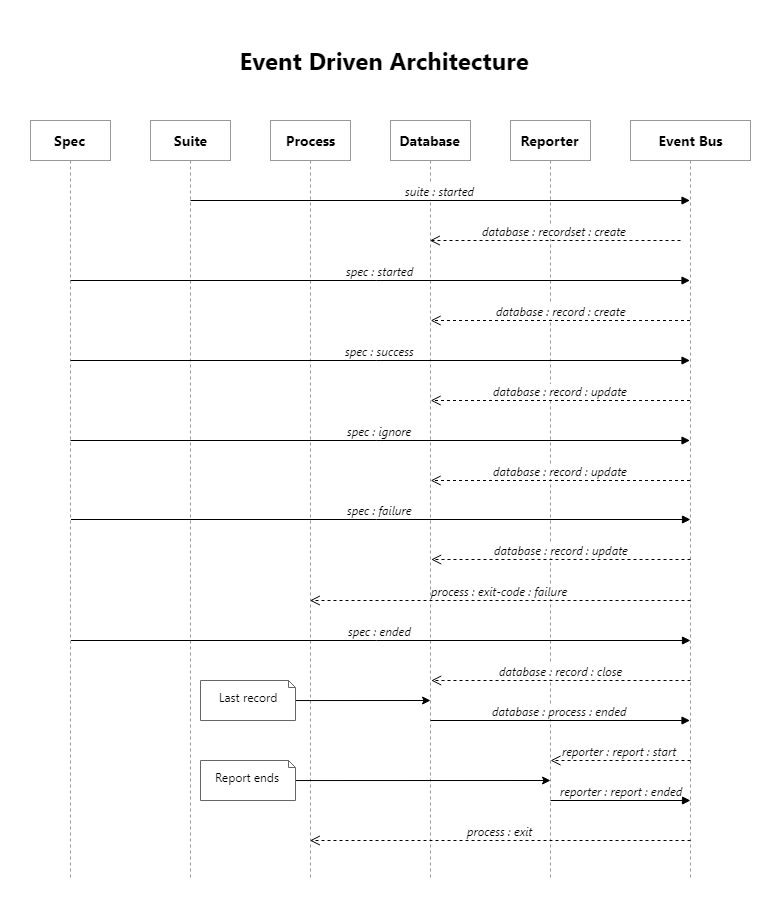
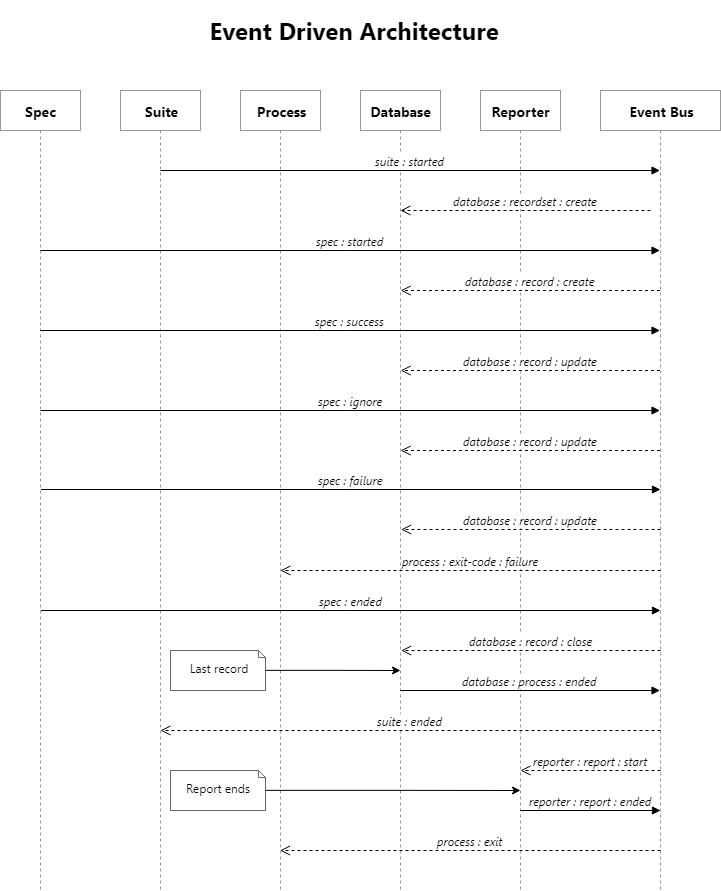
Feature/spec setup teardown (#21)
* Add setup and teardown for each specs
* Add eachSetup, eachTeardown documentation

diff --git a/dist/titef.js b/dist/titef.js
@@ -1,1 +1,1 @@
-!function(t,e){for(var r in e)t[r]=e[r]}(exports,function(t){var e={};function r(s){if(e[s])return e[s].exports;var n=e[s]={i:s,l:!1,exports:{}};return t[s].call(n.exports,n,n.exports,r),n.l=!0,n.exports}return r.m=t,r.c=e,r.d=function(t,e,s){r.o(t,e)||Object.defineProperty(t,e,{configurable:!1,enumerable:!0,get:s})},r.n=function(t){var e=t&&t.__esModule?function(){return t.default}:function(){return t};return r.d(e,"a",e),e},r.o=function(t,e){return Object.prototype.hasOwnProperty.call(t,e)},r.p="",r(r.s=3)}([function(t,e){const r={PENDING:"PENDING",SUCCESS:"SUCCESS",FAILURE:"FAILURE",IGNORED:"IGNORED"},s=Object.values(r);t.exports={EVENT:{PROCESS:{EXIT:"process:exit",EXIT_CODE:{FAILURE:"process:exit-code:failure"}},DATABASE:{RECORDSET:{CREATE:"database:recordset:create"},RECORD:{CREATE:"database:record:create",UPDATE:"database:record:update",CLOSE:"database:record:close"},PROCESS:{ENDED:"database:process:ended"}},SUITE:{STARTED:"suite:started"},SPEC:{STARTED:"spec:started",SUCCESS:"spec:success",IGNORE:"spec:ignore",FAILURE:"spec:failure",ENDED:"spec:ended"},REPORTER:{REPORT:{START:"reporter:report:start",ENDED:"reporter:report:ended"}}},RESULT:r,RESULTS:s}},function(t,e){t.exports=require("events")},function(t,e){t.exports={isNumber:t=>"[object Number]"===Object.prototype.toString.call(t),isFunction:t=>/\[object (Async)?Function]/.test(Object.prototype.toString.call(t)),isObject:t=>"[object Object]"===Object.prototype.toString.call(t)}},function(t,e,r){const{EVENT:s,RESULT:n}=r(0),o=r(4),E=r(7),i=r(8),c=r(9),u=r(10);!function(){this._reporters=[o],u.on(s.SUITE.STARTED,t=>{E.emit(s.DATABASE.RECORDSET.CREATE,t)}),c.on(s.SPEC.STARTED,t=>{E.emit(s.DATABASE.RECORD.CREATE,t)}),c.on(s.SPEC.SUCCESS,t=>{E.emit(s.DATABASE.RECORD.UPDATE,t,n.SUCCESS)}),c.on(s.SPEC.IGNORE,t=>{E.emit(s.DATABASE.RECORD.UPDATE,t,n.IGNORED)}),c.on(s.SPEC.FAILURE,(t,e)=>{E.emit(s.DATABASE.RECORD.UPDATE,t,n.FAILURE,e),i.emit(s.PROCESS.EXIT_CODE.FAILURE)}),c.on(s.SPEC.ENDED,t=>{E.emit(s.DATABASE.RECORD.CLOSE,t)}),E.on(s.DATABASE.PROCESS.ENDED,t=>{this._reporters.forEach(e=>{e.emit(s.REPORTER.REPORT.START,t)})}),this._reporters.forEach(t=>{t.on(s.REPORTER.REPORT.ENDED,()=>{i.emit(s.PROCESS.EXIT)})})}(),t.exports={suite:u.suite.bind(u),spec:c.spec.bind(c),xspec:c.spec.bind(c)}},function(t,e,r){const s=r(1),{printDatabase:n}=r(5),{EVENT:o}=r(0);t.exports=new class extends s{constructor(){super(),this.on(o.REPORTER.REPORT.START,async t=>{await n(t),this.emit(o.REPORTER.REPORT.ENDED)})}}},function(t,e,r){const{isFunction:s}=r(2),{TEXT_FORMAT:n}=r(6),{RESULT:o}=r(0),E=(...t)=>{const e=[...t,n.RESET,"\n"];return process.stdout.write(e.map(String).join(""))},i=t=>s(t)?t.name:String(t);t.exports={printDatabase:async t=>{const e={};Object.keys(t).forEach(r=>{E(n.BOLD,`SUITE: ${r}`),Object.values(t[r]).forEach(t=>{t.result===o.SUCCESS?E(n.GREEN,`[ ✔ ] ${t.title}`):t.result===o.IGNORED?E(n.YELLOW,`[ - ] ${t.title}`):t.result===o.PENDING?E(n.GREY,`[...] ${t.title}`):(E(n.RED,`[ ✕ ] ${t.title}`),e[`${t.suite} > ${t.title}`]=t.payload)})});const r=Object.entries(e);r.length&&(E(n.BOLD,"\nError details:"),r.forEach((t,e)=>{const r=t[0],s=t[1];E(n.BOLD,`\n${e+1}) ${r}`),(t=>{const e=(t=>t.message?t.message:t.toString().split(":").slice(-1)[0])(t);if((t=>"ERR_ASSERTION"===t.code||0===t.toString().indexOf("AssertionError"))(t)){const r=i(t.operator),s=i(t.expected),o=i(t.actual);E(`ASSERTION FAILURE: ${e}`),"fail"===r?E("\tUnexpected:\t",n.RED,`${o}`):!r&&t.expected&&t.actual&&(E("\tExpected:\t",n.GREEN,s),E("\tActual:\t\t",n.RED,o))}else E(`ERROR: ${e}`);E(n.GREY,t.stack)})(s)}))}}},function(t,e){t.exports={TEXT_FORMAT:{RED:"[31m",GREEN:"[32m",YELLOW:"[33m",RESET:"[0m",BOLD:"[1m",GREY:"[90m"}}},function(t,e,r){const s=r(1),{EVENT:n,RESULT:o,RESULTS:E}=r(0);t.exports=new class extends s{constructor(){super(),this._recordsets={},this._processed=0,this._currentSuite=null,this.on(n.DATABASE.RECORDSET.CREATE,this.createRecordset),this.on(n.DATABASE.RECORD.CREATE,this.createRecord),this.on(n.DATABASE.RECORD.UPDATE,this.updateRecord),this.on(n.DATABASE.RECORD.CLOSE,this.closeRecord)}createRecordset(t){this._currentSuite=t,this._recordsets[this._currentSuite]={}}createRecord(t){if(!this._currentSuite)throw new TypeError("Unable to find current Suite!");if(!t)throw new TypeError("Missing record title!");if(!this._recordsets[this._currentSuite])throw new TypeError(`Missing or null records list for ${this._currentSuite}`);this._recordsets[this._currentSuite][t]={title:t,suite:this._currentSuite,result:o.PENDING,payload:null}}updateRecord(t,e,r){if(!this._currentSuite)throw new TypeError("Unable to find current Suite!");if(!E.includes(e))throw new TypeError(`Result should be one of ${E.join()}. Got ${e}.`);this._recordsets[this._currentSuite][t]=Object.assign({},this._recordsets[this._currentSuite][t],{result:e,payload:r})}closeRecord(){this._processed+=1;const t=Object.keys(this._recordsets[this._currentSuite]).length;this._processed===t&&this.emit(n.DATABASE.PROCESS.ENDED,this._recordsets)}}},function(t,e,r){const s=r(1),{EVENT:n}=r(0);t.exports=new class extends s{constructor(){super(),this._exitCode=0,this.on(n.PROCESS.EXIT,()=>{process.exit(this._exitCode)}),this.on(n.PROCESS.EXIT_CODE.FAILURE,()=>{this._exitCode=1})}}},function(t,e,r){const s=r(1),{EVENT:n}=r(0);t.exports=new class extends s{async spec(t,e){this.emit(n.SPEC.STARTED,t);try{await e(),this.emit(n.SPEC.SUCCESS,t)}catch(e){this.emit(n.SPEC.FAILURE,t,e)}this.emit(n.SPEC.ENDED,t)}async xspec(t){this.emit(n.SPEC.STARTED,t),this.emit(n.SPEC.IGNORE,t),this.emit(n.SPEC.ENDED,t)}}},function(t,e,r){const s=r(1),{isFunction:n,isObject:o}=r(2),{EVENT:E}=r(0);class i extends s{static argumentParser(t,e){const r=t[0],s=t[1];switch(t.length){case 1:if(!n(r))throw new TypeError("Second argument must be a function!");return{options:e,callback:r};case 2:if(!o(r))throw new TypeError("Second argument must be an object!");if(!n(s))throw new TypeError("Third argument must be a function!");return{options:Object.assign({},e,r),callback:s};default:throw new TypeError(`Invalid arguments! Expected (title: string, options?: object, callback: function). Actual: ${t.map(String).join()}`)}}suite(t,...e){const r=String(t);this.emit(E.SUITE.STARTED,r);const s={title:r,setup:Function(),teardown:Function()},{options:o,callback:c}=i.argumentParser(e,s);if(!n(o.setup))throw new TypeError("Setup must be a function!");if(o.setup(),c(),!n(o.teardown))throw new TypeError("Teardown must be a function!");o.teardown()}}t.exports=new i}]));
+!function(t,e){for(var r in e)t[r]=e[r]}(exports,function(t){var e={};function r(E){if(e[E])return e[E].exports;var s=e[E]={i:E,l:!1,exports:{}};return t[E].call(s.exports,s,s.exports,r),s.l=!0,s.exports}return r.m=t,r.c=e,r.d=function(t,e,E){r.o(t,e)||Object.defineProperty(t,e,{configurable:!1,enumerable:!0,get:E})},r.n=function(t){var e=t&&t.__esModule?function(){return t.default}:function(){return t};return r.d(e,"a",e),e},r.o=function(t,e){return Object.prototype.hasOwnProperty.call(t,e)},r.p="",r(r.s=3)}([function(t,e){const r={PENDING:"PENDING",SUCCESS:"SUCCESS",FAILURE:"FAILURE",IGNORED:"IGNORED"},E=Object.values(r);t.exports={EVENT:{PROCESS:{EXIT:"process:exit",EXIT_CODE:{FAILURE:"process:exit-code:failure"}},DATABASE:{RECORDSET:{CREATE:"database:recordset:create"},RECORD:{CREATE:"database:record:create",UPDATE:"database:record:update",CLOSE:"database:record:close"},PROCESS:{ENDED:"database:process:ended"}},SUITE:{STARTED:"suite:started",HOOKS:{REGISTER:"suite:hooks:register",UNREGISTER:"suite:hooks:unregister"},ENDED:"suite:ended"},SPEC:{SETUP:{REGISTER:"spec:before-each:register",UNREGISTER:"spec:before-each:unregister"},TEARDOWN:{REGISTER:"spec:after-each:register",UNREGISTER:"spec:after-each:unregister"},STARTED:"spec:started",SUCCESS:"spec:success",IGNORE:"spec:ignore",FAILURE:"spec:failure",ENDED:"spec:ended"},REPORTER:{REPORT:{START:"reporter:report:start",ENDED:"reporter:report:ended"}}},RESULT:r,RESULTS:E}},function(t,e){t.exports=require("events")},function(t,e){t.exports={isNumber:t=>"[object Number]"===Object.prototype.toString.call(t),isFunction:t=>/\[object (Async)?Function]/.test(Object.prototype.toString.call(t)),isObject:t=>"[object Object]"===Object.prototype.toString.call(t)}},function(t,e,r){const{EVENT:E,RESULT:s}=r(0),o=r(4),i=r(7),n=r(8),c=r(9),R=r(10);!function(){this._reporters=[o],R.on(E.SUITE.STARTED,t=>{i.emit(E.DATABASE.RECORDSET.CREATE,t)}),R.on(E.SUITE.HOOKS.REGISTER,(t,e)=>{c.emit(E.SPEC.SETUP.REGISTER,t),c.emit(E.SPEC.TEARDOWN.REGISTER,e)}),R.on(E.SUITE.HOOKS.UNREGISTER,()=>{c.emit(E.SPEC.SETUP.UNREGISTER),c.emit(E.SPEC.TEARDOWN.UNREGISTER)}),c.on(E.SPEC.STARTED,t=>{i.emit(E.DATABASE.RECORD.CREATE,t)}),c.on(E.SPEC.SUCCESS,t=>{i.emit(E.DATABASE.RECORD.UPDATE,t,s.SUCCESS)}),c.on(E.SPEC.IGNORE,t=>{i.emit(E.DATABASE.RECORD.UPDATE,t,s.IGNORED)}),c.on(E.SPEC.FAILURE,(t,e)=>{i.emit(E.DATABASE.RECORD.UPDATE,t,s.FAILURE,e),n.emit(E.PROCESS.EXIT_CODE.FAILURE)}),c.on(E.SPEC.ENDED,t=>{i.emit(E.DATABASE.RECORD.CLOSE,t)}),i.on(E.DATABASE.PROCESS.ENDED,t=>{R.emit(E.SUITE.ENDED),this._reporters.forEach(e=>{e.emit(E.REPORTER.REPORT.START,t)})}),this._reporters.forEach(t=>{t.on(E.REPORTER.REPORT.ENDED,()=>{n.emit(E.PROCESS.EXIT)})})}(),t.exports={suite:R.suite.bind(R),spec:c.spec.bind(c),xspec:c.xspec.bind(c)}},function(t,e,r){const E=r(1),{printDatabase:s}=r(5),{EVENT:o}=r(0);t.exports=new class extends E{constructor(){super(),this.on(o.REPORTER.REPORT.START,async t=>{await s(t),this.emit(o.REPORTER.REPORT.ENDED)})}}},function(t,e,r){const{isFunction:E}=r(2),{TEXT_FORMAT:s}=r(6),{RESULT:o}=r(0),i=(...t)=>{const e=[...t,s.RESET,"\n"];return process.stdout.write(e.map(String).join(""))},n=t=>E(t)?t.name:String(t);t.exports={printDatabase:async t=>{const e={};Object.keys(t).forEach(r=>{i(s.BOLD,`SUITE: ${r}`),Object.values(t[r]).forEach(t=>{t.result===o.SUCCESS?i(s.GREEN,`[ ✔ ] ${t.title}`):t.result===o.IGNORED?i(s.YELLOW,`[ - ] ${t.title}`):t.result===o.PENDING?i(s.GREY,`[...] ${t.title}`):(i(s.RED,`[ ✕ ] ${t.title}`),e[`${t.suite} > ${t.title}`]=t.payload)})});const r=Object.entries(e);r.length&&(i(s.BOLD,"\nError details:"),r.forEach((t,e)=>{const r=t[0],E=t[1];i(s.BOLD,`\n${e+1}) ${r}`),(t=>{const e=(t=>t.message?t.message:t.toString().split(":").slice(-1)[0])(t);if((t=>"ERR_ASSERTION"===t.code||0===t.toString().indexOf("AssertionError"))(t)){const r=n(t.operator),E=n(t.expected),o=n(t.actual);i(`ASSERTION FAILURE: ${e}`),"fail"===r?i("\tUnexpected:\t",s.RED,`${o}`):!r&&t.expected&&t.actual&&(i("\tExpected:\t",s.GREEN,E),i("\tActual:\t\t",s.RED,o))}else i(`ERROR: ${e}`);i(s.GREY,t.stack)})(E)}))}}},function(t,e){t.exports={TEXT_FORMAT:{RED:"[31m",GREEN:"[32m",YELLOW:"[33m",RESET:"[0m",BOLD:"[1m",GREY:"[90m"}}},function(t,e,r){const E=r(1),{EVENT:s,RESULT:o,RESULTS:i}=r(0);t.exports=new class extends E{constructor(){super(),this._recordsets={},this._processed=0,this._currentSuite=null,this.on(s.DATABASE.RECORDSET.CREATE,this.createRecordset),this.on(s.DATABASE.RECORD.CREATE,this.createRecord),this.on(s.DATABASE.RECORD.UPDATE,this.updateRecord),this.on(s.DATABASE.RECORD.CLOSE,this.closeRecord)}createRecordset(t){this._currentSuite=t,this._recordsets[this._currentSuite]={}}createRecord(t){if(!this._currentSuite)throw new TypeError("Unable to find current Suite!");if(!t)throw new TypeError("Missing record title!");if(!this._recordsets[this._currentSuite])throw new TypeError(`Missing or null records list for ${this._currentSuite}`);this._recordsets[this._currentSuite][t]={title:t,suite:this._currentSuite,result:o.PENDING,payload:null}}updateRecord(t,e,r){if(!this._currentSuite)throw new TypeError("Unable to find current Suite!");if(!i.includes(e))throw new TypeError(`Result should be one of ${i.join()}. Got ${e}.`);this._recordsets[this._currentSuite][t]=Object.assign({},this._recordsets[this._currentSuite][t],{result:e,payload:r})}closeRecord(){this._processed+=1;const t=Object.keys(this._recordsets[this._currentSuite]).length;this._processed===t&&this.emit(s.DATABASE.PROCESS.ENDED,this._recordsets)}}},function(t,e,r){const E=r(1),{EVENT:s}=r(0);t.exports=new class extends E{constructor(){super(),this._exitCode=0,this.on(s.PROCESS.EXIT,()=>{process.exit(this._exitCode)}),this.on(s.PROCESS.EXIT_CODE.FAILURE,()=>{this._exitCode=1})}}},function(t,e,r){const E=r(1),{EVENT:s}=r(0);t.exports=new class extends E{constructor(){super(),this.before=null,this.after=null,this.on(s.SPEC.SETUP.REGISTER,t=>{this.before=t}),this.on(s.SPEC.TEARDOWN.REGISTER,t=>{this.after=t}),this.on(s.SPEC.SETUP.UNREGISTER,()=>{this.before=null}),this.on(s.SPEC.TEARDOWN.UNREGISTER,()=>{this.after=null})}async spec(t,e){this.emit(s.SPEC.STARTED,t),this.before&&this.before();try{await e(),this.emit(s.SPEC.SUCCESS,t)}catch(e){this.emit(s.SPEC.FAILURE,t,e)}this.after&&this.after(),this.emit(s.SPEC.ENDED,t)}async xspec(t){this.emit(s.SPEC.STARTED,t),this.emit(s.SPEC.IGNORE,t),this.emit(s.SPEC.ENDED,t)}}},function(t,e,r){const E=r(1),{isFunction:s,isObject:o}=r(2),{EVENT:i}=r(0);class n extends E{static argumentParser(t,e){const r=t[0],E=t[1];switch(t.length){case 1:if(!s(r))throw new TypeError("Second argument must be a function!");return{options:e,callback:r};case 2:if(!o(r))throw new TypeError("Second argument must be an object!");if(!s(E))throw new TypeError("Third argument must be a function!");return{options:Object.assign({},e,r),callback:E};default:throw new TypeError(`Invalid arguments! Expected (title: string, options?: object, callback: function). Actual: ${t.map(String).join()}`)}}suite(t,...e){const r=String(t);this.emit(i.SUITE.STARTED,r);const E={title:r,setup:Function(),teardown:Function(),eachSetup:Function(),eachTeardown:Function()},{options:o,callback:c}=n.argumentParser(e,E);if(this.emit(i.SUITE.HOOKS.REGISTER,o.eachSetup,o.eachTeardown),!s(o.setup))throw new TypeError("Setup must be a function!");o.setup(),c(),this.once(i.SUITE.ENDED,()=>{if(!s(o.teardown))throw new TypeError("Teardown must be a function!");o.teardown(),this.emit(i.SUITE.HOOKS.UNREGISTER)})}}t.exports=new n}]));

diff --git a/lib/index.js b/lib/index.js
@@ -15,6 +15,16 @@ function runEventBus() {
     Database.emit(EVENT.DATABASE.RECORDSET.CREATE, title);
   });
 
+  Suite.on(EVENT.SUITE.HOOKS.REGISTER, (eachSetup, eachTeardown) => {
+    Spec.emit(EVENT.SPEC.SETUP.REGISTER, eachSetup);
+    Spec.emit(EVENT.SPEC.TEARDOWN.REGISTER, eachTeardown);
+  });
+
+  Suite.on(EVENT.SUITE.HOOKS.UNREGISTER, () => {
+    Spec.emit(EVENT.SPEC.SETUP.UNREGISTER);
+    Spec.emit(EVENT.SPEC.TEARDOWN.UNREGISTER);
+  });
+
   // Spec Events
   Spec.on(EVENT.SPEC.STARTED, (title) => {
     Database.emit(EVENT.DATABASE.RECORD.CREATE, title);
@@ -37,14 +47,16 @@ function runEventBus() {
     Database.emit(EVENT.DATABASE.RECORD.CLOSE, title);
   });
 
-  // Reporter Events
+  // Database Events
   Database.on(EVENT.DATABASE.PROCESS.ENDED, (database) => {
+    Suite.emit(EVENT.SUITE.ENDED);
+
     this._reporters.forEach((reporter) => {
       reporter.emit(EVENT.REPORTER.REPORT.START, database);
     });
   });
 
-  // Database Events
+  // Reporter Events
   this._reporters.forEach((reporter) => {
     reporter.on(EVENT.REPORTER.REPORT.ENDED, () => {
       ProcessManager.emit(EVENT.PROCESS.EXIT);
@@ -58,5 +70,5 @@ runEventBus();
 module.exports = {
   suite: Suite.suite.bind(Suite),
   spec: Spec.spec.bind(Spec),
-  xspec: Spec.spec.bind(Spec),
+  xspec: Spec.xspec.bind(Spec),
 };

diff --git a/lib/suite.js b/lib/suite.js
@@ -50,9 +50,15 @@ class Suite extends EventEmitter {
       setup: Function(),
       // eslint-disable-next-line no-new-func
       teardown: Function(),
+      // eslint-disable-next-line no-new-func
+      eachSetup: Function(),
+      // eslint-disable-next-line no-new-func
+      eachTeardown: Function(),
     };
 
     const { options, callback } = Suite.argumentParser(args, defaultOptions);
+
+    this.emit(EVENT.SUITE.HOOKS.REGISTER, options.eachSetup, options.eachTeardown);
 
     if (isFunction(options.setup)) {
       options.setup();
@@ -62,11 +68,15 @@ class Suite extends EventEmitter {
 
     callback();
 
-    if (isFunction(options.teardown)) {
-      options.teardown();
-    } else {
-      throw new TypeError('Teardown must be a function!');
-    }
+    this.once(EVENT.SUITE.ENDED, () => {
+      if (isFunction(options.teardown)) {
+        options.teardown();
+      } else {
+        throw new TypeError('Teardown must be a function!');
+      }
+
+      this.emit(EVENT.SUITE.HOOKS.UNREGISTER);
+    });
   }
 }
 

diff --git a/test/spec-setup-teardown.specs.js b/test/spec-setup-teardown.specs.js
@@ -1,0 +1,37 @@
+const { suite, spec } = require('../lib');
+const assert = require('assert');
+
+suite(
+  'suite',
+  () => {
+    spec('should execute setup before and teardown after callback', async () => {
+      const messages = [];
+      suite('a', {
+        setup() {
+          messages.push('suite:setup');
+        },
+        teardown() {
+          messages.push('suite:teardown');
+        },
+        eachSetup() {
+          messages.push('spec:setup');
+        },
+        eachTeardown() {
+          messages.push('spec:teardown');
+        },
+      }, () => {
+        messages.push('suite:callback');
+        spec('b', () => {
+          messages.push('spec:callback');
+        });
+      });
+
+      assert.equal(messages[0], 'suite:setup');
+      assert.equal(messages[1], 'suite:callback');
+      assert.equal(messages[2], 'spec:setup');
+      assert.equal(messages[3], 'spec:callback');
+      assert.equal(messages[4], 'spec:teardown');
+      assert.equal(messages[5], 'suite:teardown');
+    });
+  },
+);

diff --git a/lib/spec.js b/lib/spec.js
@@ -2,8 +2,33 @@ const EventEmitter = require('events');
 const { EVENT } = require('./_const');
 
 class Spec extends EventEmitter {
+  constructor() {
+    super();
+
+    this.before = null;
+    this.after = null;
+
+    this.on(EVENT.SPEC.SETUP.REGISTER, (fn) => {
+      this.before = fn;
+    });
+
+    this.on(EVENT.SPEC.TEARDOWN.REGISTER, (fn) => {
+      this.after = fn;
+    });
+
+    this.on(EVENT.SPEC.SETUP.UNREGISTER, () => {
+      this.before = null;
+    });
+
+    this.on(EVENT.SPEC.TEARDOWN.UNREGISTER, () => {
+      this.after = null;
+    });
+  }
+
   async spec(title, callback) {
     this.emit(EVENT.SPEC.STARTED, title);
+
+    if (this.before) { this.before(); }
 
     try {
       await callback();
@@ -11,6 +36,8 @@ class Spec extends EventEmitter {
     } catch (e) {
       this.emit(EVENT.SPEC.FAILURE, title, e);
     }
+
+    if (this.after) { this.after(); }
 
     this.emit(EVENT.SPEC.ENDED, title);
   }

diff --git a/lib/_const.js b/lib/_const.js
@@ -20,8 +20,21 @@ const EVENT = {
   },
   SUITE: {
     STARTED: 'suite:started',
+    HOOKS: {
+      REGISTER: 'suite:hooks:register',
+      UNREGISTER: 'suite:hooks:unregister',
+    },
+    ENDED: 'suite:ended',
   },
   SPEC: {
+    SETUP: {
+      REGISTER: 'spec:before-each:register',
+      UNREGISTER: 'spec:before-each:unregister',
+    },
+    TEARDOWN: {
+      REGISTER: 'spec:after-each:register',
+      UNREGISTER: 'spec:after-each:unregister',
+    },
     STARTED: 'spec:started',
     SUCCESS: 'spec:success',
     IGNORE: 'spec:ignore',

diff --git a/docs/api/suite.md b/docs/api/suite.md
@@ -10,6 +10,8 @@ _after_.
 
 In **Titef** you can control those phases via the configuration object
 you will pass to the `suite` method.
+Also, you can go deeper controlling what happens before and after each
+specification.
 
 #### `suite(title: string, options?: Options, callback: function)`
 
@@ -21,10 +23,13 @@ you will pass to the `suite` method.
 
 ##### Options
 
-| Attribute 	| Type     | Description                                 |
-|-----------	|--------- |-------------------------------------------- |
+| Attribute 	| Type       | Description                                 |
+|-----------	|----------- |-------------------------------------------- |
 | setup     	| `Function` | What should happen _before_ the suite runs? |
 | teardown   	| `Function` | What should happen _after_ the suite runs?  |
+| eachSetup   | `Function` | What should happen _before each spec_ runs? |
+| eachTeardown| `Function` | What should happen _after each spec_ runs?  |
+
 
 #### Remarks and caveats
 
